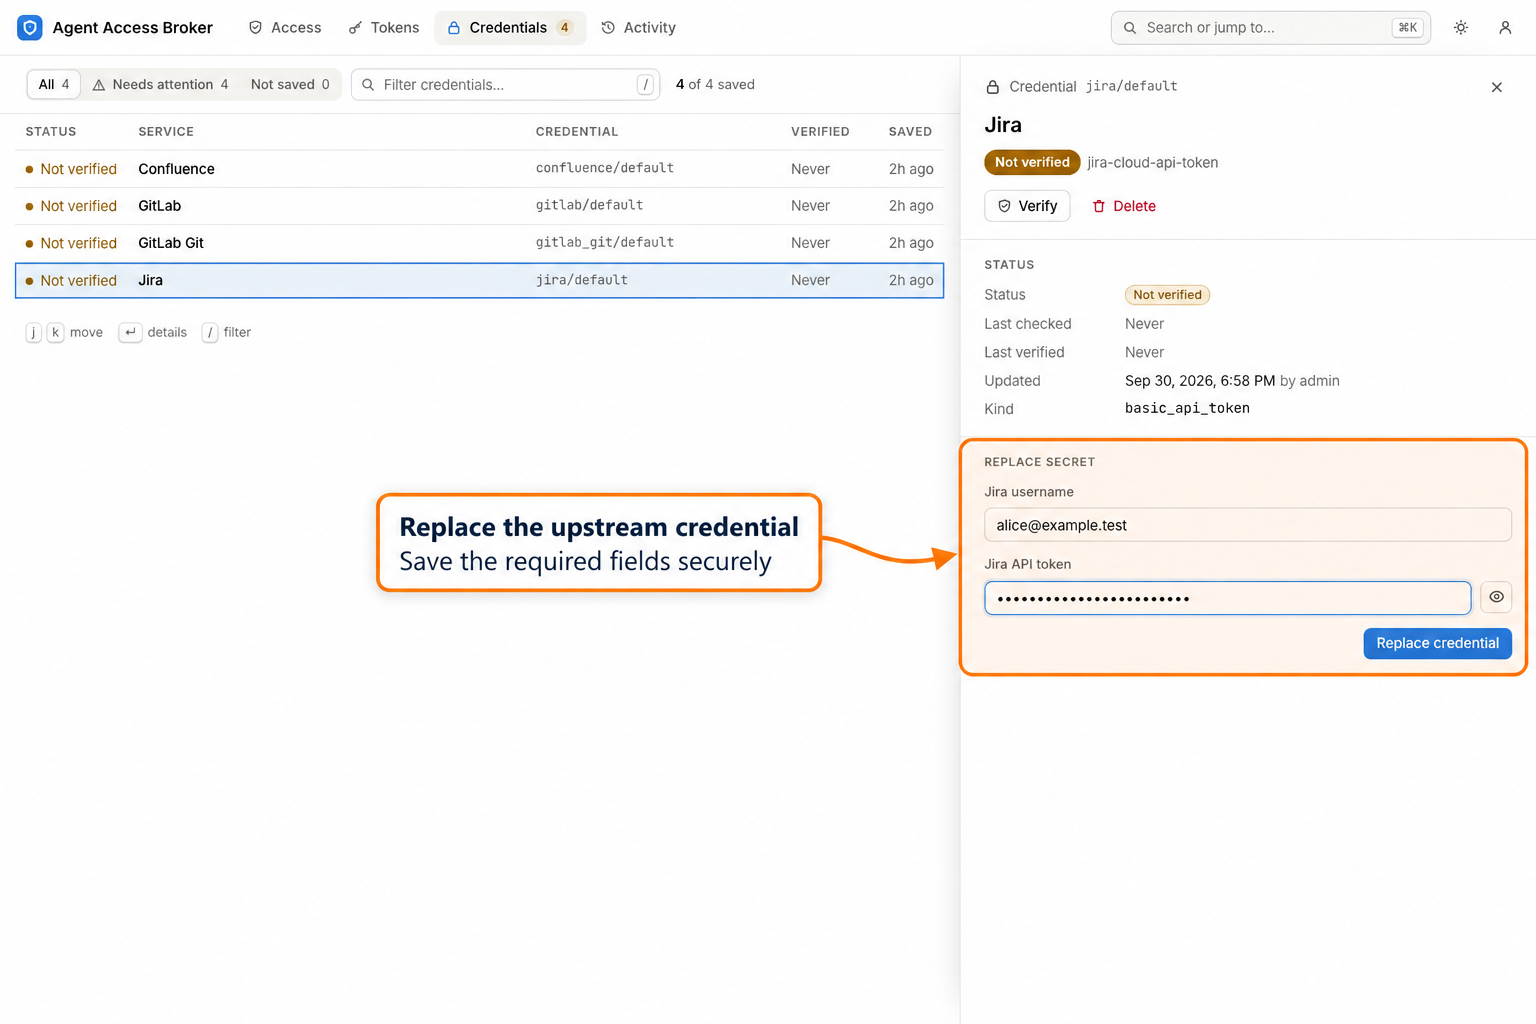
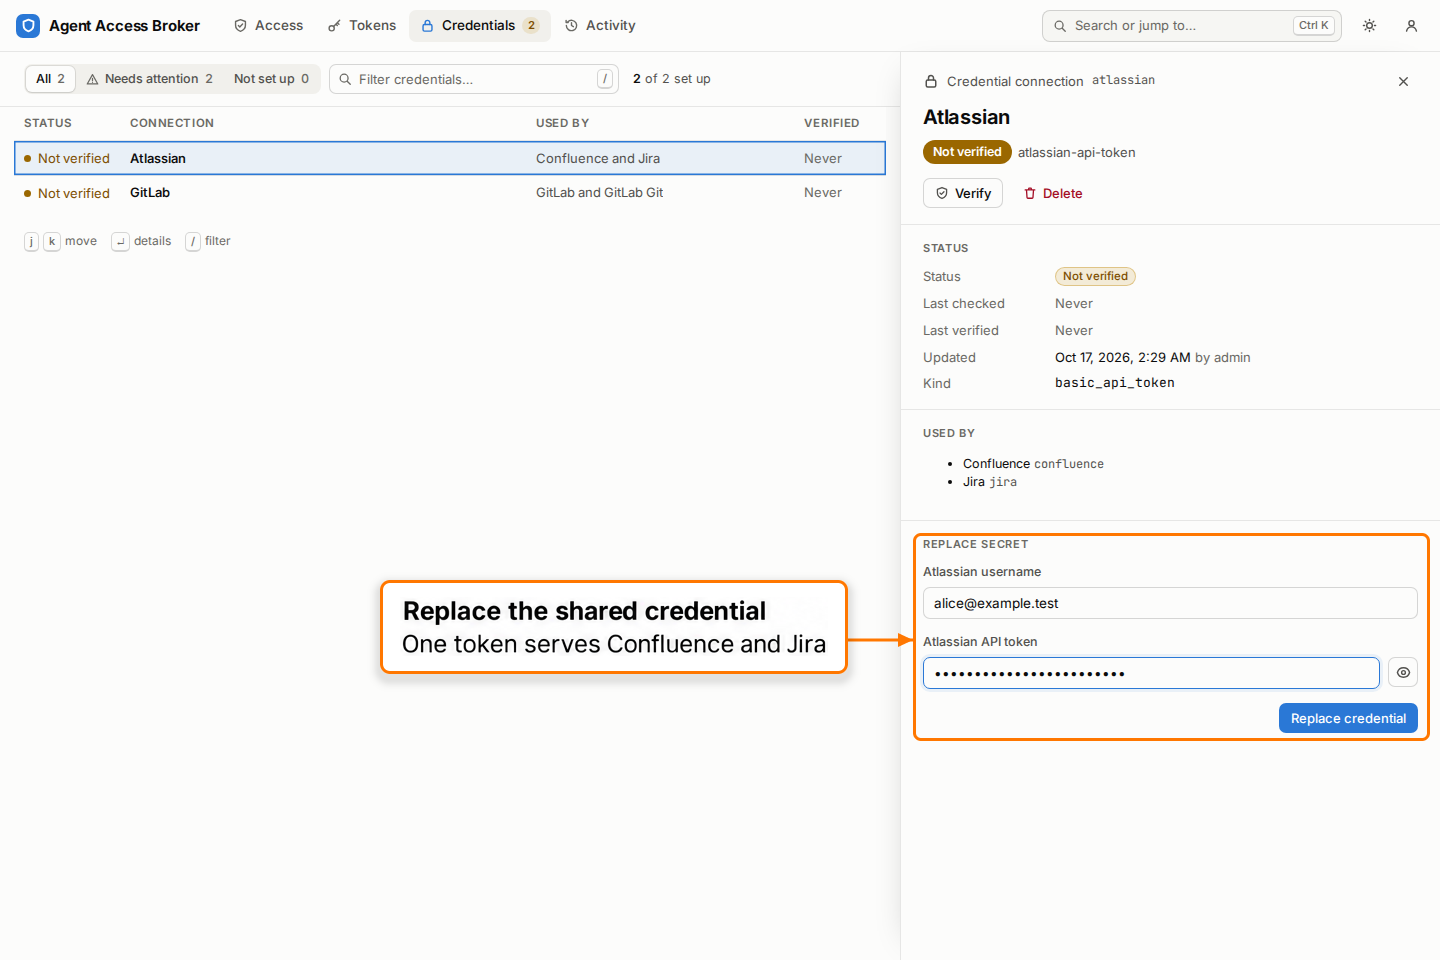
docs(portal-guide): restore the credential screenshots for credential connections
Recapture the five user-guide credential images from the credential
connections UI (one row per connection, the shared Atlassian and GitLab
connections, simulated verification and Git repository verification) and
annotate them by placing generated callout artwork on the unchanged captures.
Restore their captions and the guide's notes on simulated verification, and
state that the Atlassian username is the account email.

diff --git a/docs/portal-guide/user.md b/docs/portal-guide/user.md
@@ -6,8 +6,10 @@ with Jira access to the `DEMO` project. Ask your administrator for the broker UR
 your sign-in method, and the services and execution contexts you should use.
 
 The screenshots use synthetic accounts and credentials in the local managed
-demo. The demo's Atlassian configuration uses an example host and fake
-credentials. Run the CLI invocation below only against a configured deployment
+demo. The credential verification success and failure screenshots illustrate
+browser-only simulated responses; they do not demonstrate a connection to a real
+upstream service. The demo's Atlassian configuration uses an example host and
+fake credentials. Run the CLI invocation below only against a configured deployment
 with a real issue you are allowed to read.
 
 For the complete credential, OAuth, and client setup reference, see the
@@ -81,15 +83,26 @@ the upstream credential; give your agent only its Broker invocation token.
    GitLab REST and Git, needs one token.
 2. Check its profile and the services in **Used by**. Use the fields requested
    by the connection; for example, the `atlassian-api-token` profile asks for
-   your Atlassian account email and API token.
+   an Atlassian username, which is your Atlassian account email, and an API
+   token.
 3. Enter your upstream values and choose **Save credential** for an empty connection.
    If a credential already exists, the drawer shows **Replace secret** and the
    button is **Replace credential**. Supply the required replacement fields.
 4. After saving, check the status and verify it as described below.
 
-Credential connections come from the broker's configuration and your permitted
-personal credential access. Stored plaintext is never loaded into the
-replacement form.
+![Credentials list with the shared Atlassian and GitLab connections](../images/portal/guide-annotated/user-credentials-light.png)
+
+*Each row is one credential connection. Atlassian serves Jira and Confluence,
+and GitLab serves GitLab REST and GitLab Git, each with one stored token. A saved
+credential stays Not verified until you verify it. Credential connections come
+from the broker's configuration and your permitted personal credential access.*
+
+![Atlassian connection drawer with a masked replacement API token](../images/portal/guide-annotated/user-credential-input-light.png)
+
+*Replacing the Atlassian connection's token. The `atlassian-api-token` profile
+asks for an Atlassian username (your account email) and API token, and one saved
+token serves Jira and Confluence. The values are synthetic, and the draft is not
+saved. Stored plaintext is never loaded into the replacement form.*
 
 Expected result: the broker saves its encrypted copy and the form clears the
 entered fields. Saving does not create service access or prove that the upstream
@@ -129,6 +142,24 @@ if **Connect** or **Reconnect** is unavailable.
    choose that section's **Verify**.
 3. Read **Status**, **Last checked**, **Last verified**, and any **Last error**.
    The last successful verification time and the latest attempt time are separate.
+
+![Simulated successful verification of the Atlassian connection](../images/portal/guide-annotated/user-credential-test-success-light.png)
+
+*A simulated verification success, using a browser-only fixture: no request
+reached the Broker or Atlassian. Status shows Upstream verified, with the check
+and verification times.*
+
+![Simulated failed verification with the upstream_unauthorized error](../images/portal/guide-annotated/user-credential-test-failure-light.png)
+
+*A simulated verification failure, using a browser-only fixture. Status shows
+Verification failed, Last error shows `upstream_unauthorized`, and the notice
+explains how to recover.*
+
+![GitLab connection drawer with a repository entered under Verify through Git](../images/portal/guide-annotated/user-credential-test-repository-light.png)
+
+*The shared GitLab connection serves GitLab REST and GitLab Git. Verifying
+through the Git gateway needs a repository the token should reach. The draft
+`demo/app` is not submitted.*
 
 Expected result: the status reflects the latest supported verification outcome.
 An upstream verification establishes the tested credential's access at that time;

diff --git a/docs/portal-guide/index.md b/docs/portal-guide/index.md
@@ -119,8 +119,10 @@ output. The annotations are documentation overlays, rather than portal controls.
 Creation, replacement, password-change, and confirmation forms are captured as
 unsubmitted drafts. The auditor screenshots use a real `auditor` account with
 personal self-service disabled. Audit records are generated presentation
-fixtures. The demo's Atlassian credential and host cannot be used to perform
-the real CLI example.
+fixtures. Credential verification success and failure are simulated at the
+browser response boundary and explicitly identified in their captions; they do
+not contact a live upstream. The demo's Atlassian credential and host cannot be
+used to perform the real CLI example.
 
 Screenshots show the interface, while the steps describe what to submit in your
 own configured deployment. Existing demo grants can be broader than the new

diff --git a/docs/images/portal/guide-annotated/README.md b/docs/images/portal/guide-annotated/README.md
@@ -15,4 +15,7 @@ reviewed copy. Each manifest entry identifies its original guide image.
 
 All accounts and audit data are synthetic. Creation and confirmation forms are
 unsubmitted examples. Credential verification success and failure are simulated
-and labeled in their annotations.
+and labeled in both the annotations and guide captions. The five credential
+copies (`user-credential*-light.png`) place generated callout artwork on the
+unchanged capture, so every original UI pixel is preserved; their highlights
+have no tint.
